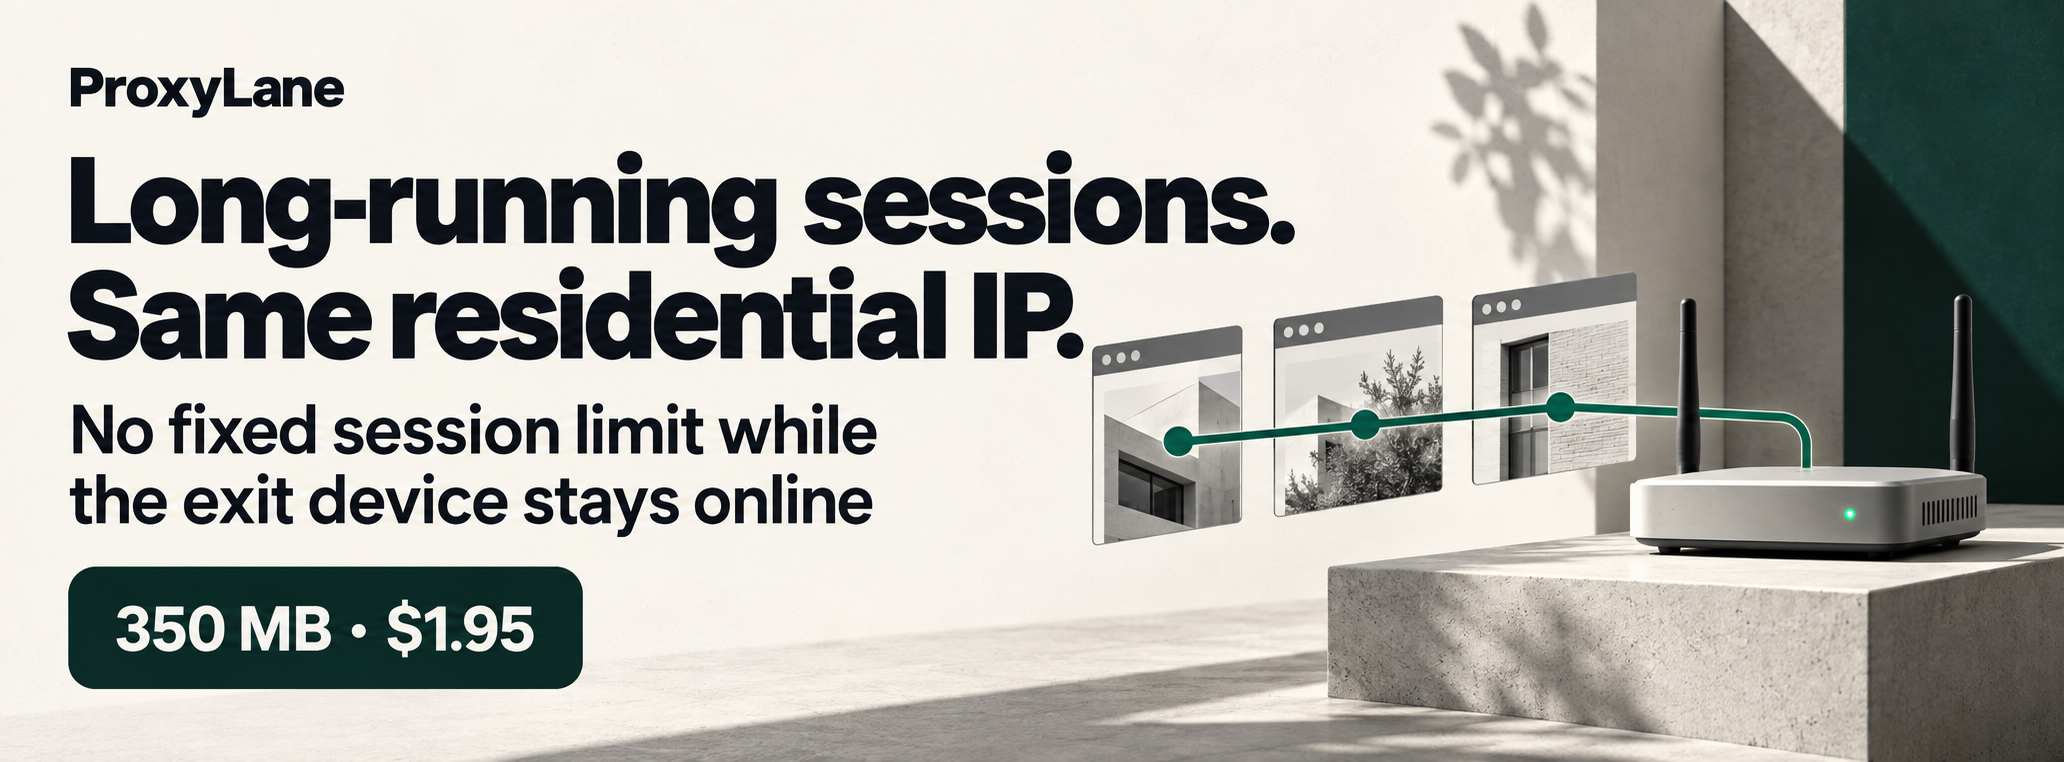
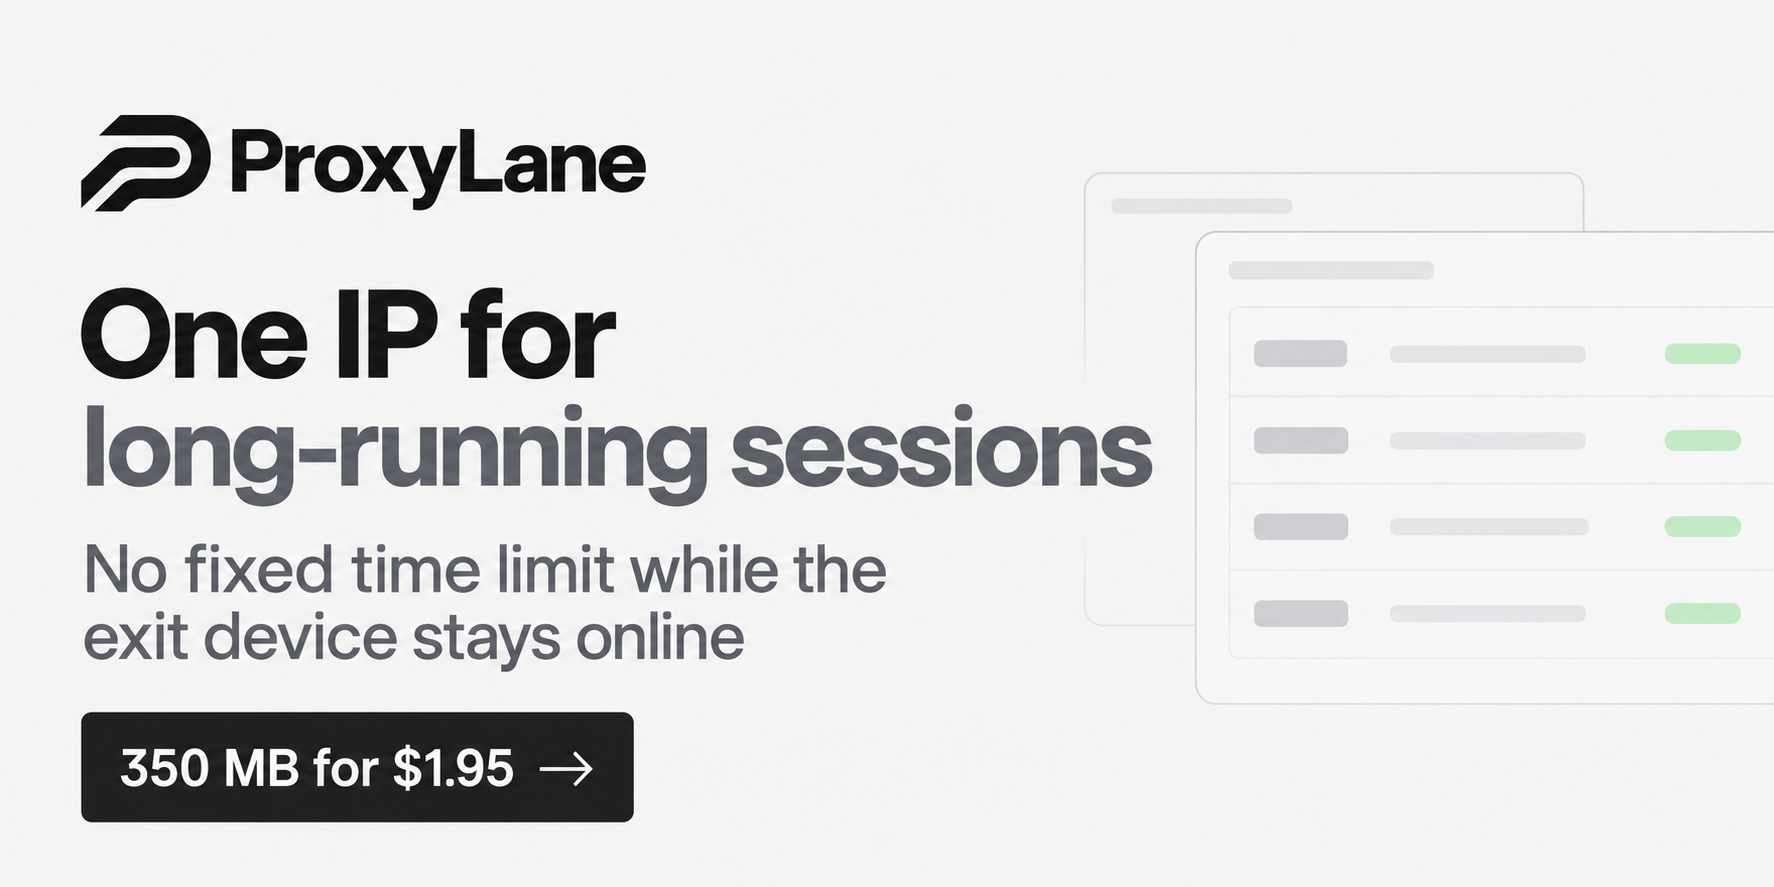
docs: align ProxyLane demo with sponsor table and brand

diff --git a/README.md b/README.md
@@ -168,27 +168,31 @@ I'm thankful to the people and companies who support HeadlessX. BirdProxies, Swi
     </td>
   </tr>
 
+  <tr>
+    <td colspan="2"><hr /></td>
+  </tr>
+  <tr>
+    <td width="440" align="center" valign="middle">
+      <a href="https://proxylane.dev/pricing?utm_source=headlessx&amp;utm_medium=sponsorship&amp;utm_campaign=premium-pilot&amp;utm_content=readme">
+        <img src="assets/proxylane-headlessx-sponsor.png" alt="ProxyLane — Long-running sessions with the same residential IP while the exit device stays online" width="420" />
+      </a>
+    </td>
+    <td valign="middle">
+      <a name="proxylane"></a>
+      <strong>Sponsored · ProxyLane — Residential proxies for long-running browser sessions and AI-agent workflows</strong>
+      <br /><br />
+      Keep the same residential IP across related browser steps, with no fixed session time limit while the exit device stays online. Choose an available country, city or ISP; rotate when you start an independent job.
+      <br /><br />
+      Connect through HeadlessX <strong>Settings → Proxy</strong> using <strong>HTTP</strong>, then verify your browser’s exit IP before testing your target. Start with <strong>350 MB for $1.95</strong> or <strong>1 GB for $6.50</strong>. Unused prepaid traffic never expires.
+      <br /><br />
+      Session continuity also depends on your browser profile and target site; a residential exit can go offline.
+      <br /><br />
+      <a href="https://proxylane.dev/pricing?utm_source=headlessx&amp;utm_medium=sponsorship&amp;utm_campaign=premium-pilot&amp;utm_content=readme"><strong>View packages</strong></a> · <a href="docs/proxylane.md"><strong>Connect &amp; verify exit IP</strong></a>
+    </td>
+  </tr>
 </table>
 
 </details>
-
-### Sponsored · ProxyLane
-
-<a href="https://proxylane.dev/pricing?utm_source=headlessx&amp;utm_medium=sponsorship&amp;utm_campaign=premium-pilot&amp;utm_content=readme">
-  <img src="assets/proxylane-headlessx-sponsor.png" alt="ProxyLane — Long-running sessions. Same residential IP. No fixed session limit while the exit device stays online. 350 MB for $1.95." width="1140" />
-</a>
-
-**ProxyLane — Residential proxies for long-running browser sessions and AI-agent workflows.**
-
-Keep the same residential IP across related browser steps, with no fixed session time limit while the exit device stays online. Choose an available country, city or ISP; rotate when you start an independent job.
-
-Connect through HeadlessX **Settings → Proxy** using **HTTP**, then verify your browser’s exit IP before testing your target.
-
-Start with **350 MB for $1.95** or **1 GB for $6.50**. Unused prepaid traffic never expires.
-
-Session continuity also depends on your browser profile and target site; a residential exit can go offline.
-
-[View packages](https://proxylane.dev/pricing?utm_source=headlessx&utm_medium=sponsorship&utm_campaign=premium-pilot&utm_content=readme) · [Connect & verify exit IP](docs/proxylane.md)
 
 ## Operators
 
